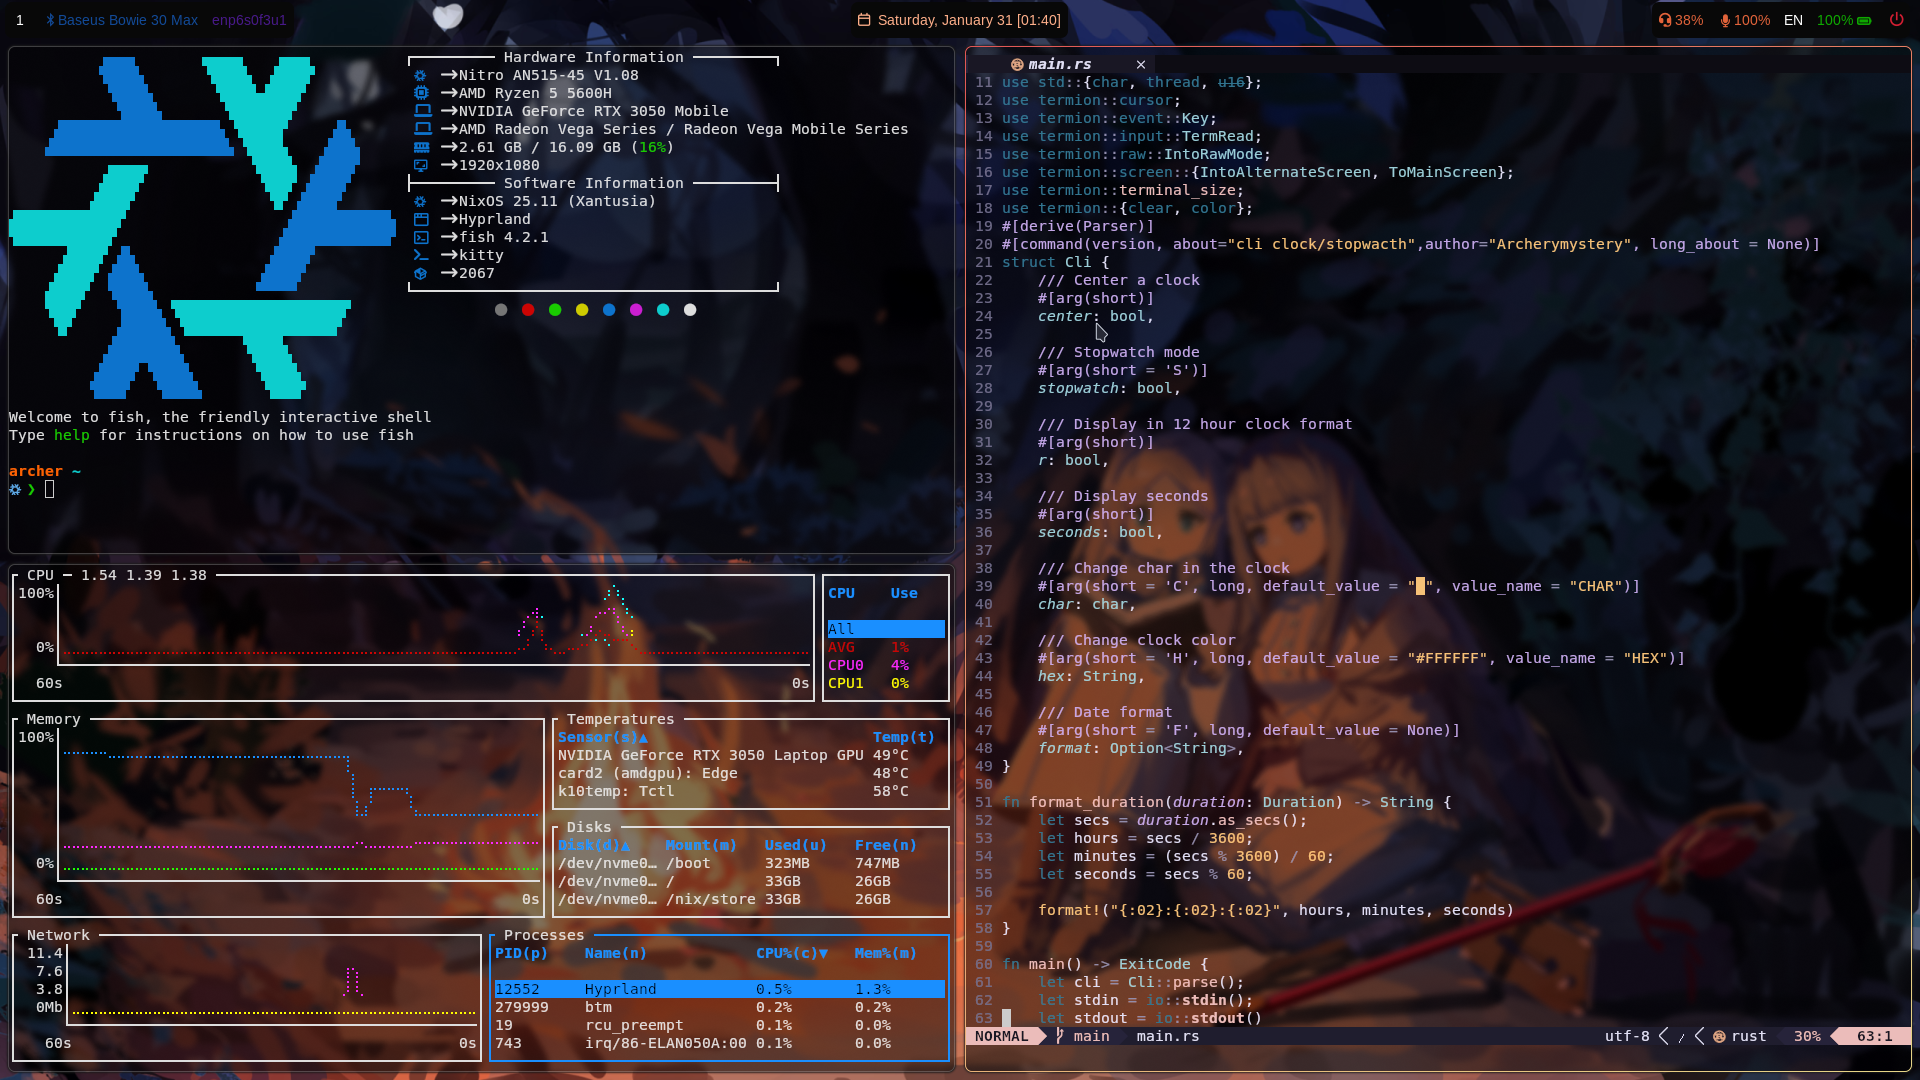
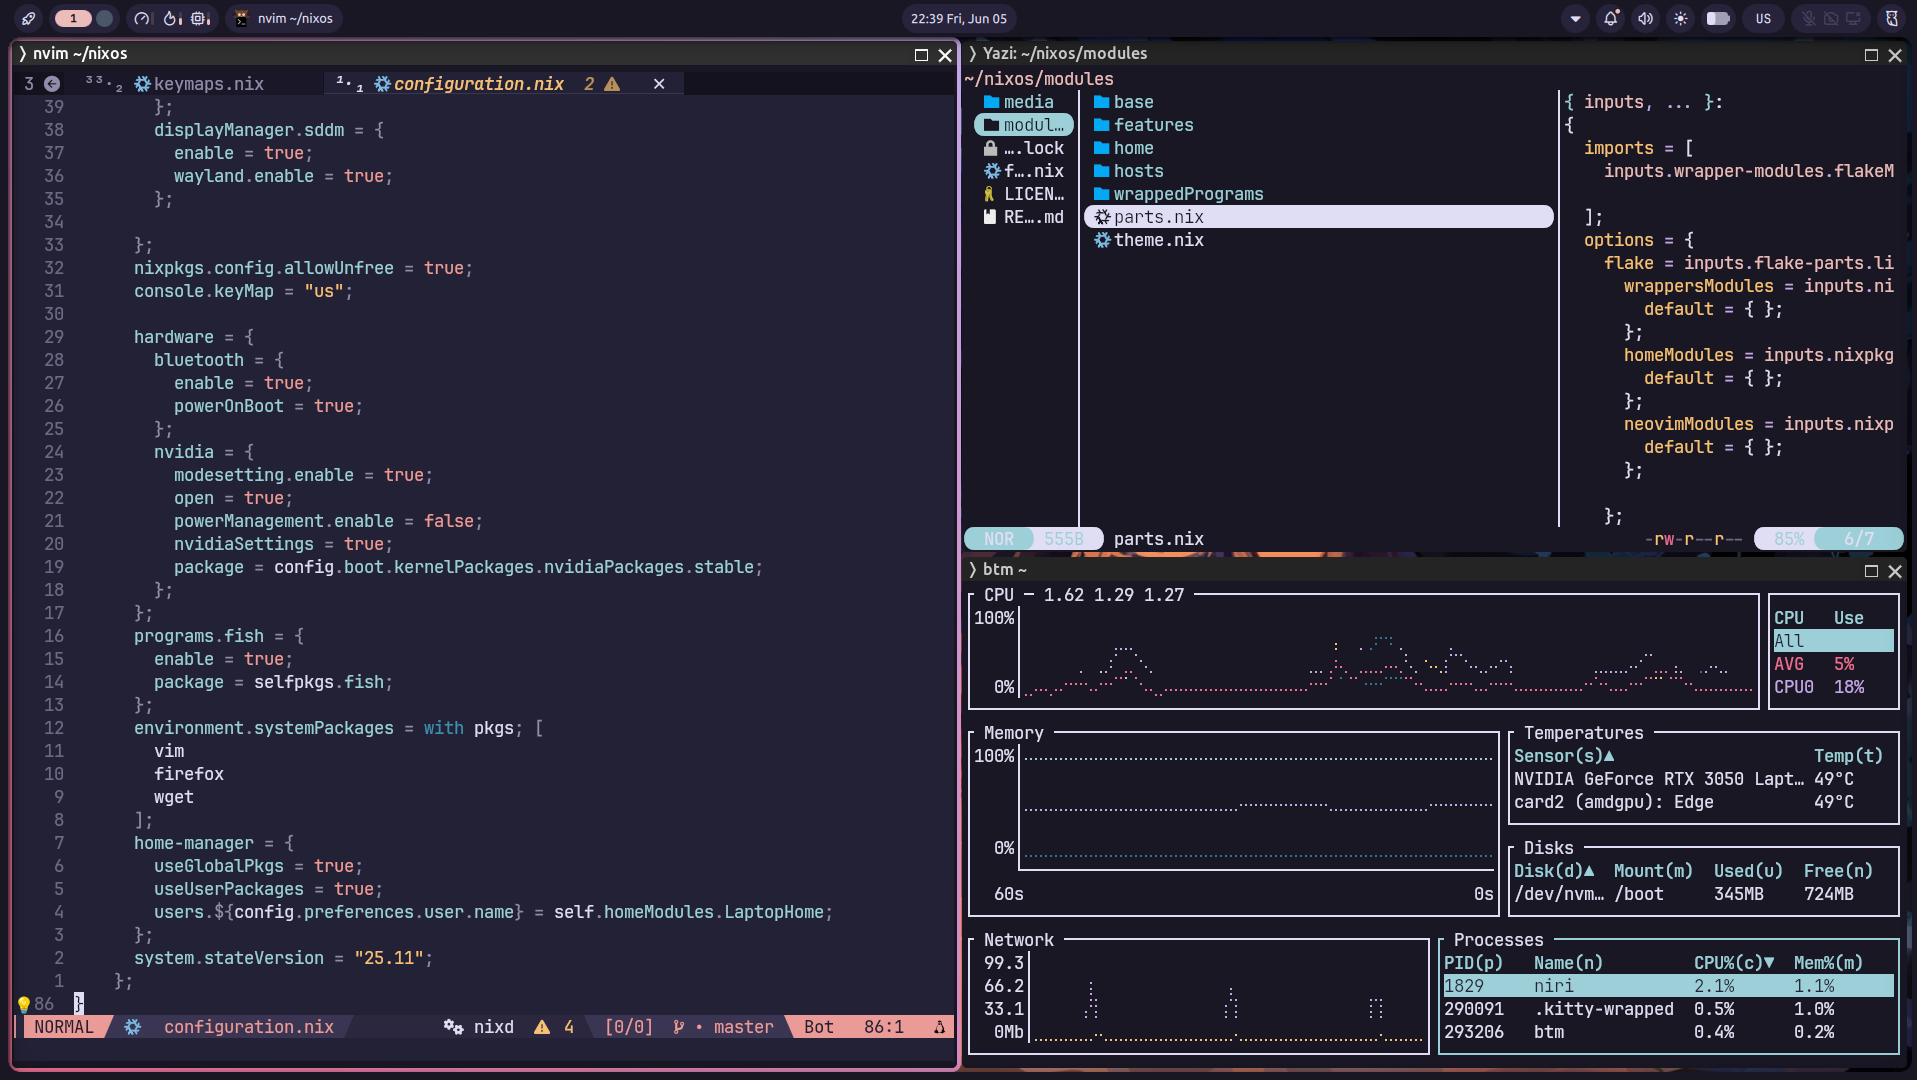
docs: update README.md

diff --git a/README.md b/README.md
@@ -10,7 +10,7 @@
         <img src="https://img.shields.io/github/repo-size/Archerymystery/nixos-config?style=for-the-badge&logo=github&logoColor=B16286&labelColor=282828&color=B16286">
         </a>
         <a = href="https://nixos.org">
-         <img src="https://img.shields.io/badge/NixOS-25.11-blue.svg?style=for-the-badge&labelColor=282828&logo=NixOS&logoColor=458588&color=458588">
+         <img src="https://img.shields.io/badge/NixOS-unstable-blue.svg?style=for-the-badge&labelColor=282828&logo=NixOS&logoColor=458588&color=458588">
         </a>
         <a href="https://github.com/Archerymystery/nixos-config/blob/master/LICENSE">
          <img src="https://img.shields.io/static/v1.svg?style=for-the-badge&label=License&message=MIT&colorA=282828&colorB=98971A&logo=unlicense&logoColor=98971A&"/>
@@ -18,49 +18,21 @@
         <br>
    </div>
 </h1>
- <img src="./.github/1.png"/>
-<details>
-<summary>
-    Sddm
-</summary>
-   <img src="./.github/2.png" /> <br>
-</details>
-<details>
-<summary>
-    Hyprlock
-</summary>
-   <img src="./.github/3.png" /> <br>
-</details>
+<img src="./.github/1.png"/>
 
-<details>
-<summary>
-    Launcher
-</summary>
-   <img src="./.github/4.png" /> <br>
-</details>
-<details>
-<summary>
-    Notifications
-</summary>
-   <img src="./.github/5.png" /> <br>
-</details>
 
 # Software I Use
 | Syntax | Description |
 | ----------- | ----------- |
-| Window Manager | [Hyprland](https://github.com/hyprwm/Hyprland) |
-| Status Bar | [Waybar](https://github.com/Alexays/Waybar) |
+| Window Manager | [niri](https://github.com/niri-wm/niri) |
+| Desktop shell| [noctalia](https://github.com/noctalia-dev/noctalia-shell) |
 | Terminal | [kitty](https://github.com/kovidgoyal/kitty) |
-| Launcher | [wofi](https://hg.sr.ht/~scoopta/wofi) |
 | Browser | [Firefox](https://www.mozilla.org/uk/firefox/) |
 | File Manager | [yazi](https://github.com/sxyazi/yazi) |
-| Notifications | [mako](https://github.com/emersion/mako) |
 | Image Viewer | [imv](https://sr.ht/~exec64/imv/) |
 | Video Player | [mpv](https://github.com/mpv-player/mpv) |
-| Lockscreen | [hyprlock](https://github.com/hyprwm/hyprlock)|
-| Wallpaper Utility | [hyprpaper](https://github.com/hyprwm/hyprpaper)|
 | System Monitor | [bottom](https://github.com/ClementTsang/bottom) |
-| Code Redactor | [neovim](https://github.com/neovim/neovim)
+| Code Redactor | [neovim](https://github.com/neovim/neovim) with [NVF](https://github.com/NotAShelf/nvf.git)|
 
 
 
